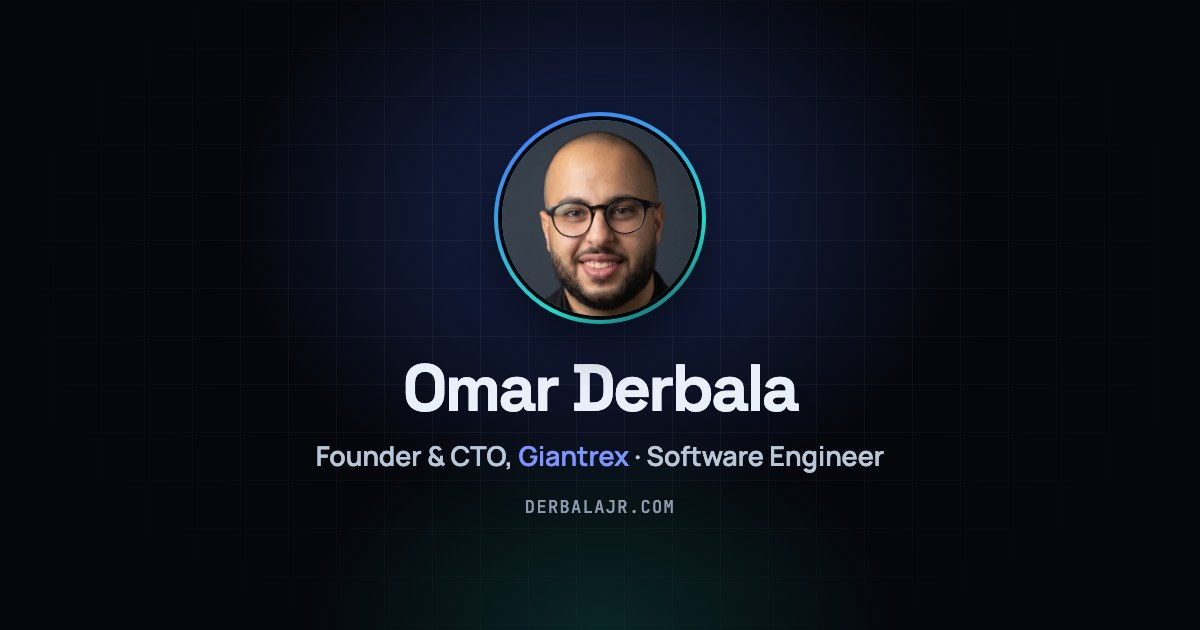
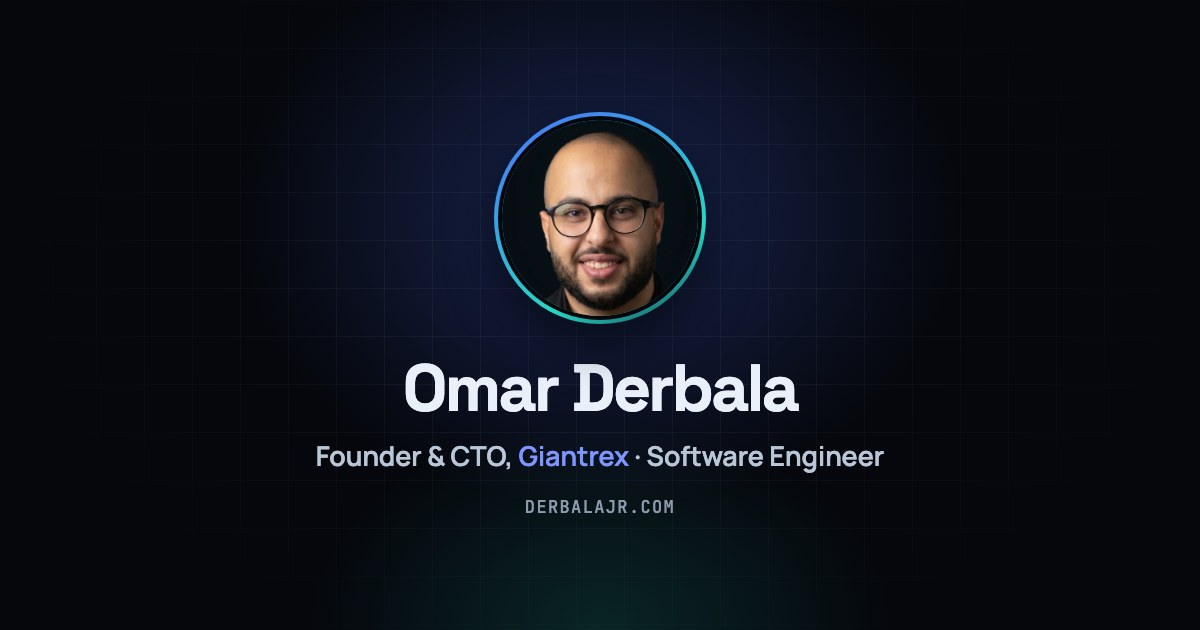
Hero portrait on the original dark backdrop
The new photo was shot on slate grey (#2b3646); the original sat on
near-black navy that blends into the hero. Cut out with OpenCV GrabCut
and recomposited on a #0b141a -> #02070b backdrop. New filename again so
cached copies of the grey version can't be served; old URLs redirect.

Changed region(s): [[0.4008, 0.181, 0.5858, 0.4825]]

diff --git a/data/ar.ts b/data/ar.ts
@@ -22,7 +22,7 @@ export const heroData = {
     "مؤسس Giantrex ومديرها التقني، ومهندس برمجيات أول. أصمّم وأبني المنصات التي تُدار بها الأعمال، من نموذج البيانات حتى الواجهة، بأي تقنية تتطلبها المشكلة.",
   proof: ["★ Top Rated على Upwork", "نسبة نجاح 100%", "أكثر من 4 سنوات في بيئة الإنتاج"],
   portrait: {
-    src: "/omar-derbala-portrait.webp",
+    src: "/omar-derbala-headshot.webp",
     width: 1200,
     height: 1607,
     alt: "عمر دربالة، مؤسس Giantrex ومديرها التقني",

diff --git a/data/en.ts b/data/en.ts
@@ -20,7 +20,7 @@ export const heroData = {
     "Founder and CTO of Giantrex, and a senior software engineer. I design and build the platforms businesses run on, from the data model to the interface, in whatever stack the problem calls for.",
   proof: ["★ Top Rated on Upwork", "100% Job Success", "4+ yrs in production"],
   portrait: {
-    src: "/omar-derbala-portrait.webp",
+    src: "/omar-derbala-headshot.webp",
     width: 1200,
     height: 1607,
     alt: "Omar Derbala, founder and CTO of Giantrex",

diff --git a/app/shell.tsx b/app/shell.tsx
@@ -177,7 +177,7 @@ const personSchema = {
   url: SITE_URL,
   // Person.image is the portrait, not the share card — schema.org wants an
   // image of the person here.
-  image: `${SITE_URL}/omar-derbala-portrait.webp`,
+  image: `${SITE_URL}/omar-derbala-headshot.webp`,
   email: "derbalajr@gmail.com",
   telephone: "+201111293179",
   jobTitle: ["Founder & CTO", "Senior Full Stack Engineer"],

diff --git a/docs/design/og/README.md b/docs/design/og/README.md
@@ -22,7 +22,7 @@ node icon.mjs   # favicon.ico, icon-192/512, icon-maskable-512, apple-touch-icon
   and some Telegram clients to a square; LinkedIn and X show it whole.
 - JPEG, not WebP: LinkedIn and some chat apps still reject WebP previews,
   and WhatsApp drops preview images over roughly 300 KB.
-- The photo is `public/omar-derbala-portrait.webp`, the same as the hero and
+- The photo is `public/omar-derbala-headshot.webp`, the same as the hero and
   `Person.image` in the JSON-LD.
 
 Chat apps cache previews per URL. After changing the card, re-scrape with the
